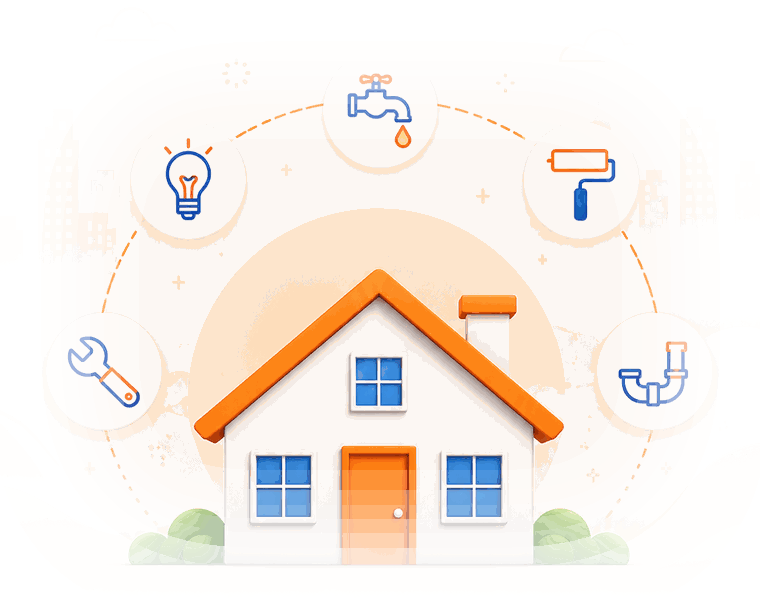
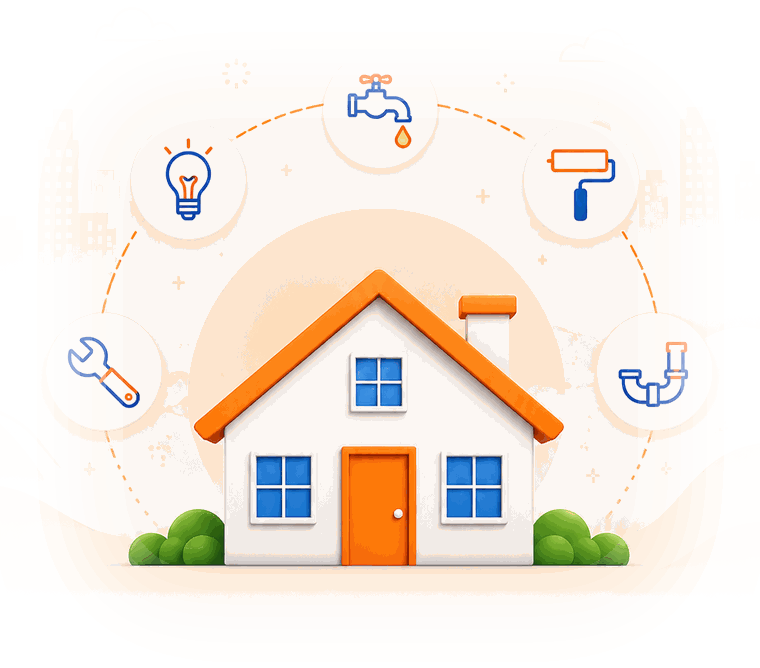
fix(welcome): updated hero artwork + 1.14 aspect ratio; owner test-guide touch-up

diff --git a/src/screens/UserTypeScreen.jsx b/src/screens/UserTypeScreen.jsx
@@ -112,7 +112,7 @@ const UserTypeScreen = ({ navigation }) => {
         {/* Hero Illustration */}
         <Image
           source={require('../assets/hero_home_services.png')}
-          style={[styles.heroImage, { height: heroHeight, width: Math.round(heroHeight * 1.25) }]}
+          style={[styles.heroImage, { height: heroHeight, width: Math.round(heroHeight * 1.14) }]}
           resizeMode="contain"
           accessible={false}
         />

diff --git a/OWNER_TEST_GUIDE.md b/OWNER_TEST_GUIDE.md
@@ -49,7 +49,7 @@ Mark each ✅ pass / ❌ fail. If ❌, note what you saw.
 ## 6. Email survives leaving the app
 - [ ] Add an email → leave the app to open the email link → return to the app (even if the phone closed the app in the background) → Profile shows the email **verified**. Nothing is lost.
 
-## 7. Change the email
+## 7. Change the email ( For future update )
 - [ ] From Profile, go to add/change email again → enter a **different** email → save.
 - [ ] The old email is replaced, it shows **not verified**, and a **new** verification email arrives.
 
